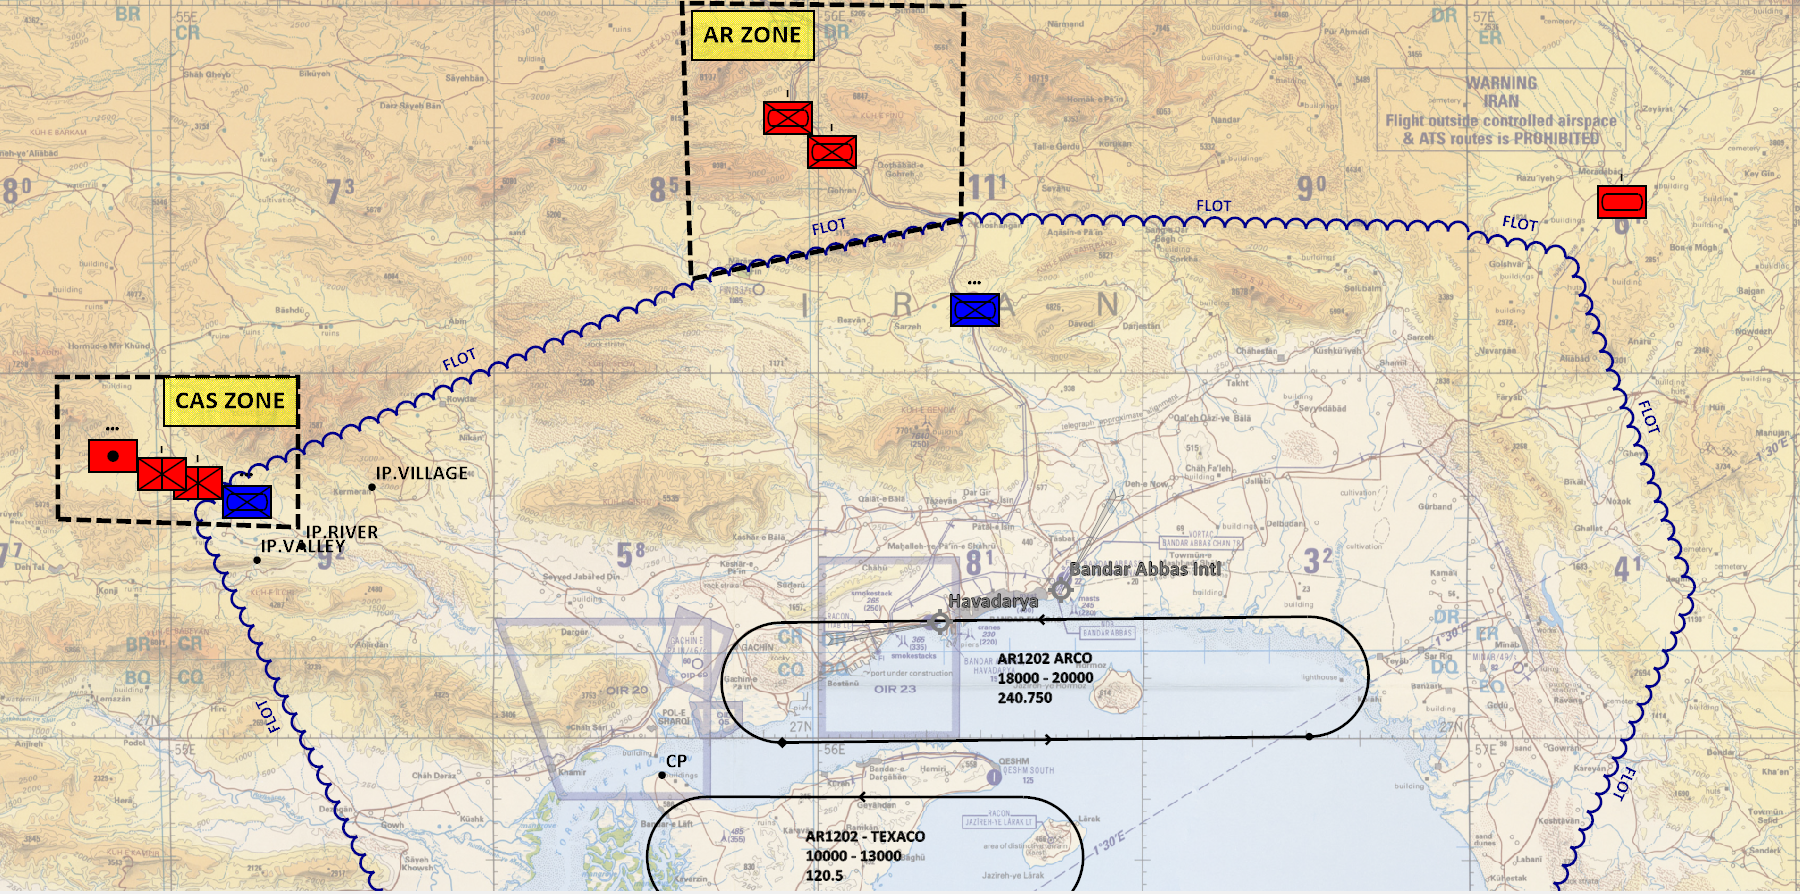
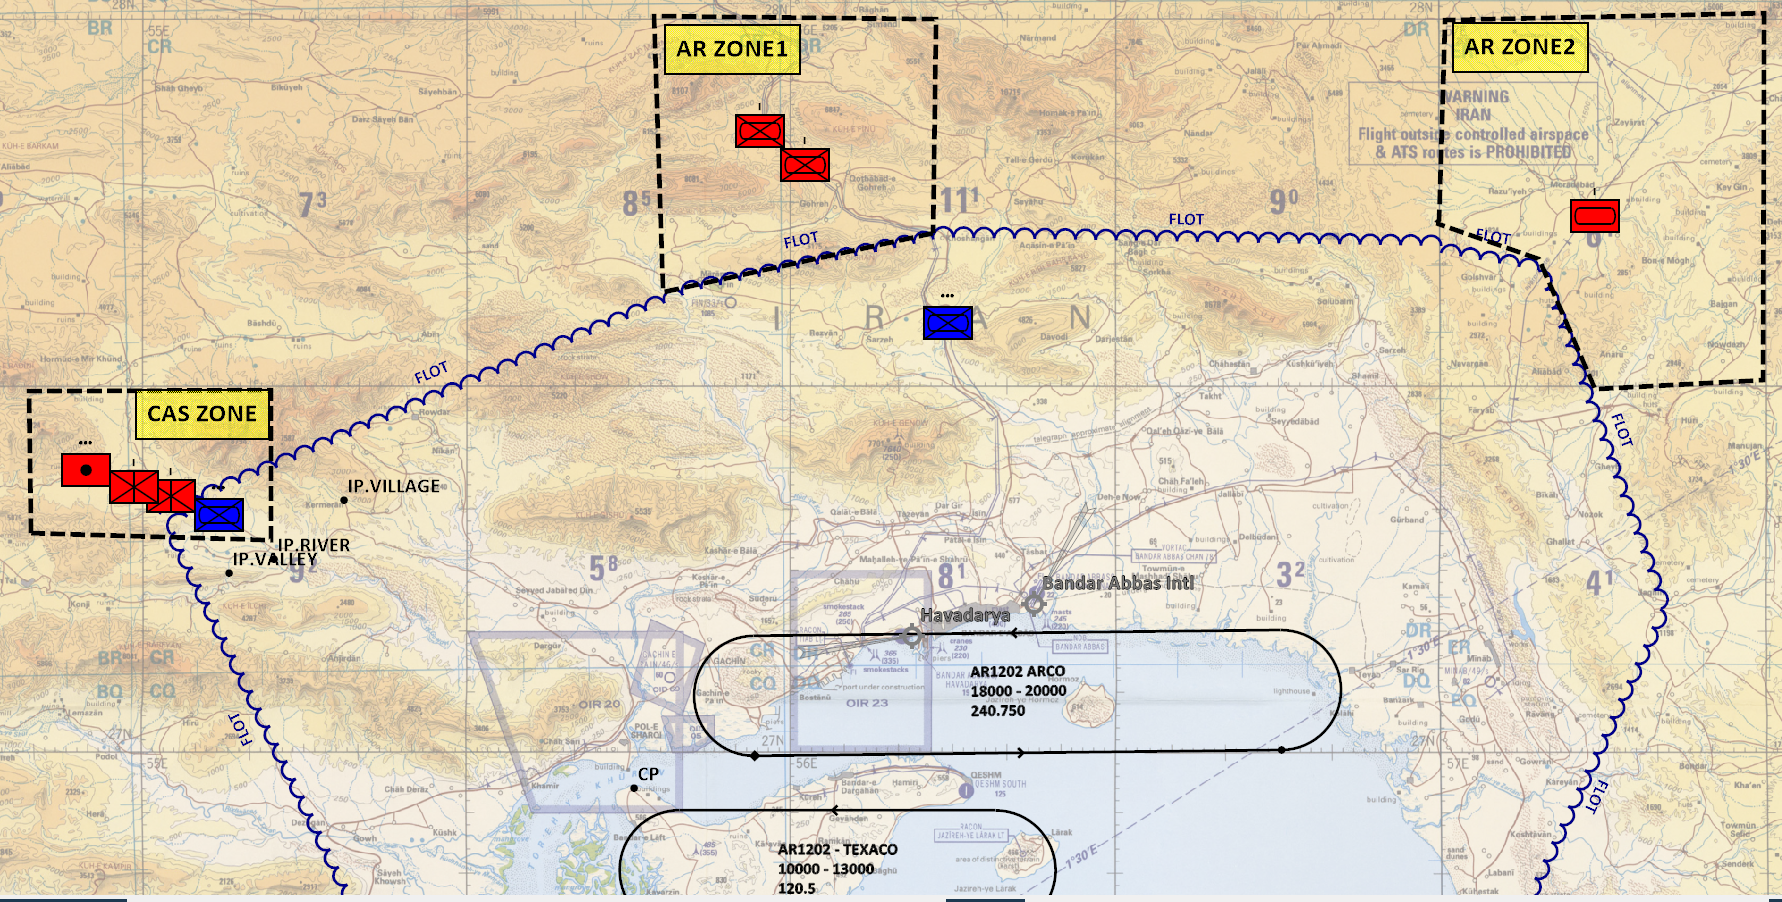
chg: Updated brief for MSN 12

diff --git a/Docs/Flights.md b/Docs/Flights.md
@@ -7,30 +7,35 @@
 
 | **FLIGHT** | **TACAN** |**PRIMARY FREQUENCY**|**SECONDARY FREQUENCY**|**Lasercode** |**IFF**| Airbase | Group ID |
 | ------ | ---- | ------ | -------- | -------- | ---- | --- |
-**PANTHER**  |50Y-113Y| 247.000 (GOLD 1)    | 140.000 (MAROON 11) |1515-1518|4211-4214| OMAM | N/A |
-**FALCON**   |51Y-114Y| 227.750 (OCHRE 1)   | 137.000 (BROWN 11) |1525-1528|4221-4224| OMAM | N/A |
-**HAWK**     |52Y-115Y| 246.000 (LIME 3)    | 135.000 (LEMON 10) |1535-1538|4231-4234| OMAM | N/A |
-**JEDI**     |53Y-116Y| 226.500 (MAROON 10) | 130.000 (LIME 10)|1545-1548|4241-4244| OMAM | N/A |
-**RAVEN**    |54Y-117Y| 241.000 (MAROON 8)  | 126.750 (AMBER 9) |1555-1558|4251-4254| OMAM | N/A |
-**HUNTER**   |55Y-118Y| 225.500 (CORAL 11)  | 132.000 (VIOLET 9) |1325-1328|4261-4264| OMAM | N/A |
-**EAGLE**    |56Y-119Y| 225.750 (INDIGO 10) | 139.000 (INDIGO 7) |1335-1338|4271-4274| OMAM | N/A |
-**JACKAL**   |57Y-120Y| 244.250 (CHERRY 11) | 141.000 (OLIVE 3) |1345-1348|4311-4314| OMAM | N/A |
-**KNIGHT**   |58Y-121Y| 233.750 (AQUA 8)    | 136.250 (INDIGO 6) |1355-1358|4321-4324| OMAM | N/A |
-**SPARE**    |59Y-122Y| xxx.xxx             | xxx.xxx  |1455-1458|4331-4334| OMAM | N/A |
-**SPARE**    |60Y-123Y| xxx.xxx             | xxx.xxx  |1445-1448|4361-4364| OMAM | N/A |
+**PANTHER**  |50Y-113Y| 247.000 (GOLD 1)    | 140.000 (MAROON 11) |1515-1518|4211-4214| AL MINHAD | N/A |
+**FALCON**   |51Y-114Y| 227.750 (OCHRE 1)   | 137.000 (BROWN 11) |1525-1528|4221-4224| AL MINHAD | N/A |
+**HAWK**     |52Y-115Y| 246.000 (LIME 3)    | 135.000 (LEMON 10) |1535-1538|4231-4234| AL MINHAD | N/A |
+**JEDI**     |53Y-116Y| 226.500 (MAROON 10) | 130.000 (LIME 10)|1545-1548|4241-4244| AL MINHAD | N/A |
+**RAVEN**    |54Y-117Y| 241.000 (MAROON 8)  | 126.750 (AMBER 9) |1555-1558|4251-4254| AL MINHAD | N/A |
+**HUNTER**   |55Y-118Y| 225.500 (CORAL 11)  | 132.000 (VIOLET 9) |1325-1328|4261-4264| AL MINHAD | N/A |
+**EAGLE**    |56Y-119Y| 225.750 (INDIGO 10) | 139.000 (INDIGO 7) |1335-1338|4271-4274| AL MINHAD | N/A |
+**JACKAL**   |57Y-120Y| 244.250 (CHERRY 11) | 141.000 (OLIVE 3) |1345-1348|4311-4314| AL MINHAD | N/A |
+**KNIGHT**   |58Y-121Y| 233.750 (AQUA 8)    | 136.250 (INDIGO 6) |1355-1358|4321-4324| AL MINHAD | N/A |
+**SPARE**    |60Y-123Y| xxx.xxx             | xxx.xxx  |1445-1448|4361-4364| AL MINHAD | N/A |
 
+
+## F-14
+
+| **FLIGHT** | **TACAN** |**PRIMARY FREQUENCY**|**SECONDARY FREQUENCY**|**Lasercode** |**IFF**| Airbase | Group ID |
+| ------ | ---- | ------ | -------- | -------- | ---- | --- |
+**SPECTRE**    |59Y-122Y| 248.500 | 134.750  |1455-1458|4331-4334| AL MINHAD | N/A |
 
 ## A-10C
 
 | **FLIGHT** | **TACAN** |**PRIMARY FREQUENCY**|**SECONDARY FREQUENCY**|**Lasercode** |**IFF**| Airbase | Group ID |
 | ------ | ---- | ------ | -------- | -------- | ---- | --- |
-**BEAST** |25Y-88Y| 31.25 (CHERRY 2)|139.750 (AQUA 10)   |1511-1514|4121-4124| OMDM | 31 |
-**AXE**   |26Y-89Y| 35.75 (CHERRY 4)|141.250 (OLIVE 9)   |1521-1524|4111-4114| OMDM | 32 |
-**CLAW**  |27Y-90Y| 36.25 (GOLD 5)  |119.750 (INDIGO 2)  |1531-1534|4131-4134| OMDM | 33 |
-**MISTY** |28Y-91Y| 35.50 (GOLD 10) |141.750 (OLIVE 4)   |1541-1544|4141-4144| OMDM | 34 |
-**DEVIL** |29Y-92Y| 34.25 (LEMON 1) |140.750 (INDIGO 9)  |1551-1554|4351-4354| OMDM | 35 |
-**SPARE** |30Y-93Y| xxx.xxx         |xxx.xxx             |1321-1324|4371-4374| OMDM | 36 |
-**SPARE** |31Y-94Y| xxx.xxx         |xxx.xxx             |1331-1334|4381-4384| OMDM | 37 |
+**BEAST** |25Y-88Y| 31.25 (CHERRY 2)|139.750 (AQUA 10)   |1511-1514|4121-4124| BANDAR ABBAS | 31 |
+**AXE**   |26Y-89Y| 35.75 (CHERRY 4)|141.250 (OLIVE 9)   |1521-1524|4111-4114| BANDAR ABBAS | 32 |
+**CLAW**  |27Y-90Y| 36.25 (GOLD 5)  |119.750 (INDIGO 2)  |1531-1534|4131-4134| BANDAR ABBAS | 33 |
+**MISTY** |28Y-91Y| 35.50 (GOLD 10) |141.750 (OLIVE 4)   |1541-1544|4141-4144| BANDAR ABBAS | 34 |
+**DEVIL** |29Y-92Y| 34.25 (LEMON 1) |140.750 (INDIGO 9)  |1551-1554|4351-4354| BANDAR ABBAS | 35 |
+**SPARE** |30Y-93Y| xxx.xxx         |xxx.xxx             |1321-1324|4371-4374| BANDAR ABBAS | 36 |
+**SPARE** |31Y-94Y| xxx.xxx         |xxx.xxx             |1331-1334|4381-4384| BANDAR ABBAS | 37 |
 
 <br>
 
@@ -39,12 +44,12 @@
 
 | **FLIGHT**  | **IFF**   |**PRIMARY FREQUENCY**|**SECONDARY FREQUENCY**| Airbase |
 | ------      | ----      | ------              | --------            | -------- |
-**BEAR**      | 3211-3214 | 36.300 (BLACK 5)  | 129.750 (AQUA 2) | FARP |
-**COBRA**     | 3111-3114 | 32.900 (BLACK 2)  | 134.250 (PURPLE 3) | FARP |
-**DRAGON**    | 3121-3124 | 48.500 (BLACK 3)  | 127.250 (GOLD 9| FARP |
-**GRIZZLY**   | 3221-3224 | 38.200 ( BLACK 7) | 137.750 (GREEN 9) | FARP |
-**SHARK**     | 3131-3134 | 33.800 (BLACK 4)  | 125.500 (OCHRE 10) | FARP |
-**TIGER**     | 3231-3234 | 39.800 (BLACK 8)  | 128.750 (GRAY 3)| FARP |
+**BEAR**      | 3211-3214 | 36.300 (BLACK 5)  | 129.750 (AQUA 2) | BANDAR ABBAS |
+**COBRA**     | 3111-3114 | 32.900 (BLACK 2)  | 134.250 (PURPLE 3) | BANDAR ABBAS |
+**DRAGON**    | 3121-3124 | 48.500 (BLACK 3)  | 127.250 (GOLD 9| BANDAR ABBAS |
+**GRIZZLY**   | 3221-3224 | 38.200 ( BLACK 7) | 137.750 (GREEN 9) | BANDAR ABBAS |
+**SHARK**     | 3131-3134 | 33.800 (BLACK 4)  | 125.500 (OCHRE 10) | BANDAR ABBAS |
+**TIGER**     | 3231-3234 | 39.800 (BLACK 8)  | 128.750 (GRAY 3)| BANDAR ABBAS |
 
 ## Back
 [Back to frontpage](https://132nd-vwing.github.io/OPUF-Brief/)

diff --git a/Docs/ATO/ATO_12.md b/Docs/ATO/ATO_12.md
@@ -13,7 +13,9 @@ This ATO is supported by the following documents: <br>
 * NOTAM
 
 ## Priorites
-TBD
+Priority 1: is to strike chemical weapon factory, OBJ GARY
+Priority 2: is CAS operations in support of friendlies
+Priority 3: is defending against any Armored forces (Main Battle Tank formations) that pose a threat to frontline forces at the FLOT.
 
 
 <br>
@@ -21,7 +23,106 @@ TBD
 
 ## TASKING 
 
-TO BE UPDATED FRIDAY 20th SEPTEMBER (REAL WORLD TIME), based on signups.
+**PANTHER**
+PACKAGE ALPHA - STRIKE AT OBJECTIVE GARY: [OBJECTIVE GARY](/OPUF-Brief/Docs/TARGET/132nd-OPUF_Target folder_OBJ GARY.pdf)| [DMPI](/OPUF-Brief/Docs/TARGET/OPUF OBJ GARY DMPIs.cf)
+ROLE: ESCORT
+PACKAGE COMMANDER
+TOT: Package Commanders discretion
+Package Freq: 230.750 (LIME 5)
+
+**FALCON**
+PACKAGE ALPHA - STRIKE AT OBJECTIVE GARY: [OBJECTIVE GARY](/OPUF-Brief/Docs/TARGET/132nd-OPUF_Target folder_OBJ GARY.pdf)| [DMPI](/OPUF-Brief/Docs/TARGET/OPUF OBJ GARY DMPIs.cf)
+ROLE: SEAD
+SEAD LEAD
+TOT: Package Commanders discretion
+
+**JEDI**
+PACKAGE ALPHA - STRIKE AT OBJECTIVE GARY: [OBJECTIVE GARY](/OPUF-Brief/Docs/TARGET/132nd-OPUF_Target folder_OBJ GARY.pdf)| [DMPI](/OPUF-Brief/Docs/TARGET/OPUF OBJ GARY DMPIs.cf)
+ROLE: STRIKE
+STRIKE LEAD
+TOT: Package Commanders discretion
+Package Freq: 230.750 (LIME 5)
+
+**SPECTRE**
+PACKAGE ALPHA - STRIKE AT OBJECTIVE GARY: [OBJECTIVE GARY](/OPUF-Brief/Docs/TARGET/132nd-OPUF_Target folder_OBJ GARY.pdf)| [DMPI](/OPUF-Brief/Docs/TARGET/OPUF OBJ GARY DMPIs.cf)
+ROLE: SWEEP
+TOT: Package Commanders discretion
+Package Freq: 230.750 (LIME 5)
+
+**RAVEN**
+PACKAGE ALPHA - STRIKE AT OBJECTIVE GARY: [OBJECTIVE GARY](/OPUF-Brief/Docs/TARGET/132nd-OPUF_Target folder_OBJ GARY.pdf)| [DMPI](/OPUF-Brief/Docs/TARGET/OPUF OBJ GARY DMPIs.cf)
+ROLE: ESCORT
+TOT: Package Commanders discretion
+Package Freq: 230.750 (LIME 5)
+
+
+
+**EAGLE**
+PACKAGE BRAVO - ARMED RECON: KILLBOX FO (AR ZONE 2). TARGET: [151st ARMORED REGIMENT](/OPUF-Brief/Docs/Enemy/151ST_MBT_REGT.html)
+ROLE: SEAD
+VUL: 1745G-1845G (1945Z-2045Z)
+Package Freq: 245.500 (GOLD 11)
+
+**DEVIL**
+PACKAGE BRAVO - ARMED RECON: KILLBOX FO (AR ZONE 2). TARGET: [151st ARMORED REGIMENT](/OPUF-Brief/Docs/Enemy/151ST_MBT_REGT.html)
+ROLE: Armed Reconnisance
+PACKAGE COMMANDER
+VUL: 1745G-1845G (1945Z-2045Z)
+Package Freq: 245.500 (GOLD 11)
+
+
+
+
+**BEAST**
+FAC(A) in support of friendlies in KILLBOX GK.
+Primary target: [123rd MOTORIZED INFANTRY REGIMENT](/OPUF-Brief/Docs/Enemy/123RD_APC_REGT.html)
+VUL: 1645G-1815G (1845Z-2015Z)
+CAS Freq:  234.250 (LEMON 9)  /  136.750 (OCHRE 8)  
+CP: Tip of Land on QHESM ISLAND
+
+**AXE**  
+CAS in support of BEAST , supporting friendlies in KILLBOX GK.
+VUL: 1655G-1815G (1855Z-2015Z)
+CAS Freq:  234.250 (LEMON 9)  /  136.750 (OCHRE 8)  
+CP: Tip of Land on QHESM ISLAND
+
+**MISTY**  
+CAS in support of BEAST , supporting friendlies in KILLBOX GK.
+VUL: 1655G-1815G (1855Z-2015Z)
+CAS Freq:  234.250 (LEMON 9)  /  136.750 (OCHRE 8)  
+CP: Tip of Land on QHESM ISLAND
+
+
+
+
+**COBRA**
+ARMED RECONNISANCE in KILLBOX FM and FL (AR ZONE 1)
+TARGET: [222nd MECHANIZED INFANTRY REGIMENT](/OPUF-Brief/Docs/Enemy/222ND_IFV_REGT.html)
+VUL: 1645G-1815G (1845Z-2015Z)
+Clear route for GRIZZLY and escort GRIZZLY during ingress. Coordinate as necessary with GRIZZLY
+
+
+
+**GRIZZLY**
+Transport of personell and ammunition from FOB BANDAR ABBAS to frontline forces NORTH (In Killbox FM)
+Coordinate with COBRA that will provide escort for the first ingress.
+
+
+
+**HAWK**
+MISSION: CAP in KILBOX GJ and GK. 
+Purpose: Protect CAS operations (BEAST, AXE and MISTY)
+VUL: 1645G-1815G (1845Z-2015Z)
+YO-YO ops together with HUNTER to ensure contiuous coverage
+FOB Bandar Abbas have a limited amount of A-A missiles if needed to resupply.
+
+
+**HUNTER**
+MISSION: CAP in KILBOX GJ and GK. 
+Purpose: Protect CAS operations (BEAST, AXE and MISTY)
+VUL: 1645G-1815G (1845Z-2015Z)
+YO-YO ops together with HAWK to ensure contiuous coverage
+FOB Bandar Abbas have a limited amount of A-A missiles if needed to resupply.
 
 
 ## Back

diff --git a/Docs/INTEL/INTEL_MSN12.MD b/Docs/INTEL/INTEL_MSN12.MD
@@ -1,17 +1,22 @@
 # Situation report OPUF MSN 12
 Local time: Early morning 16th of June 2011.
 
-![MSN12 Overview](/Images/MSN12_OVERVIEW.PNG)
+
+![MSN12 Overview](/OPUF-Brief/Images/MSN12_OVERVIEW.PNG)
+
 
 ### General
 The friendly amphibious forces have the last days expanded the beachhead and the FLOT is as shown in the picture above.
 A-10Cs and Rotary wing aircrafts are now based at FOB Bandar Abbas Airfield, that got operational in the morning of the 16th of June.
 
  
-To the NORTH, friendly forces expect to get in contact with Iranian 222nd Mechanized Infantry Regiment within the next hours. Because of this, a 
+To the NORTH, friendly forces expect to get in contact with Iranian [222nd MECHANIZED INFANTRY REGIMENT](/OPUF-Brief/Docs/Enemy/222ND_IFV_REGT.html) within the next hours. Because of this, a 
 AR mission is tasked on the ATO to attrit the enemy forces before friendly forces continue their push NORTH to engage the 222nd Mechanized Infantry Regiment.
 
-To the WEST, friendly forces are currently engaged in battle with parts of Iranian 123rd Motorized Infantry Regiment. Friendlies have requested CAS in order to defend
+To the WEST, friendly forces are currently engaged in battle with parts of Iranian [123rd MOTORIZED INFANTRY REGIMENT](/OPUF-Brief/Docs/Enemy/123RD_APC_REGT.html). Friendlies have requested CAS in order to defend
 themself from the Iranian offensive. It is likely that elements from the 133rd Armored Regiment is preparing a offensive after part of 123rd Motorized Infantry Regiment have softened up friendly positions.
+
+To the EAST, TARGET: [the 151st ARMORED REGIMENT](/OPUF-Brief/Docs/Enemy/151ST_MBT_REGT.html) have been moving towards BANDAR ABBAS, and it is assessed that IRAN is planning to conduct a counterattack. 
+It is important that the main battle tanks are stopped before they can do damage toward light friendly forces at the FLOT.
 
 

diff --git a/Docs/NOTAM/NOTAM_12.md b/Docs/NOTAM/NOTAM_12.md
@@ -1,8 +1,45 @@
 # NOTAM OPUF MSN 12
 
-##
+## ATC instructions
+UNMANNED ATC: operate on twr freq when within 10nm of installation below 7 500ft
 
-TO BE UPDATED FRIDAY 20th of SEPTEMBER, real world time. 
+
+Al Minhad (OMDM) and BANDAR ABBAS  MINIMUM T/O SPACING WITHIN FLIGHT IS 20 SECONDS.
+
+
+WORDS ALPHA: DIRECTIVE "SEPARATE FOR IDENT", IS A REQUEST FROM THE CONTROLLER TO KICK-OUT FLIGHT EITHER IN HORIZONTAL SPACE OR HEIGHT (500FT). 
+CALL ESTABLISH AND STATE YOUR CURRENT FORMATION, OR CURRENT ALT SEPARATION. EXAMPLE: "LEAD LOW 4 HIGH".
+
+
+### AL MINHAD (OMDM)
+All ATC calls on Al Minhad TWR: 121.2 <br>
+Ground, TWR and Approach merged on TWR Freq. <br>
+**ATIS:** 121.400
+
+
+### BANDAR ABBAS
+All ATC calls on BANDAR ABBAS TWR: 118.2 <br>
+Ground, TWR and Approach merged on TWR Freq. <br>
+**ATIS:** 118.400
+
+
+## AWACS
+
+### DARKSTAR
+Senior Director. 
+Responsible for directing and coordinating controller services
+
+### CRYSTAL
+Weapons director: A-A Controller. Responsible for CAP: HAWK and HUNTER flights
+
+### OVERLORD
+Weapons director: Supporting PACKAGE ALPHA.
+
+### MAGIC
+Weapons director: Supporting A-G operations (BEAST, AXE, MISTY, COBRA, GRIZZLY)
+
+
+### AWACS freqs in use
 
 <br>
 <br>

diff --git a/Docs/ACO/ACO_12.md b/Docs/ACO/ACO_12.md
@@ -9,18 +9,18 @@
 ## ACO for 16th of JUNE 2011
 
 ### ACTIVE AIRSPACE 
-No entry into activae airspace unless approved by airspace owner/controlling agency.
+No entry into activae airspace unless approved by controlling agency.
 
-AR1201
-AR1202
-AR1203
+
+AR1201 - SHELL FL230-250
+AR1202 - ARCO FL180-FL200
+AR1203 - TEXACO FL105-120
 
 
 
 ## Graphical presentation
 
-WORK IN PROGRESS - correct information to be updated FRIDAY 20th SEPTEMBER (Real world time)
-![ACO MSN 12](/OPUF-Brief/Images/ACO_10.PNG)
+![MSN12 ACO](/OPUF-Brief/Images/MSN12_ACO.PNG)
 
 
 

diff --git a/Docs/SPINS.md b/Docs/SPINS.md
@@ -20,6 +20,10 @@ Fujaira GND: 124.1 <br>
 Fujaira TWR: 124.2 <br>
 
 
+Bandar Abbas TWR: 118.200 <br>
+Bandar Abbas ATIS: 118.400 <br>
+
+
 ### FARP's
 FARP LONDON: 230.500 (INDIGO 11) <br>
 FARP MADRID 231.750 (BROWN 8) <br>
@@ -100,7 +104,7 @@ LOCATION: See Weekly SPINS <br>
 
 
 
-## Identification Friend or Foe (IFF)
+## Identification Friend or Foe (IFF) (  CURRENTLY NOT USED AS WE ARE USING SRS  )
 All flights are to use the following IFF codes :
 
 **MODE 1:** 01 <br>
